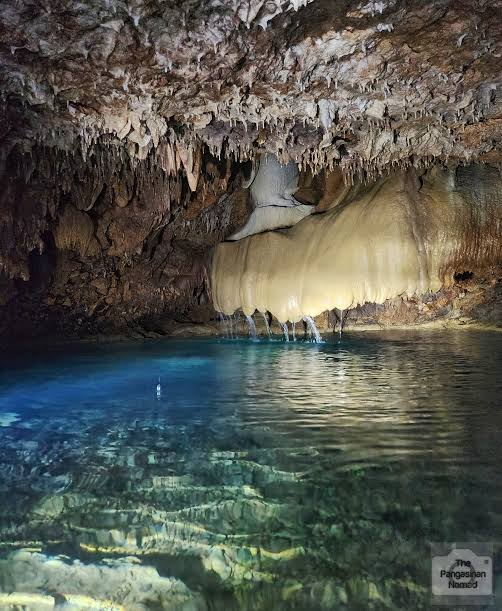
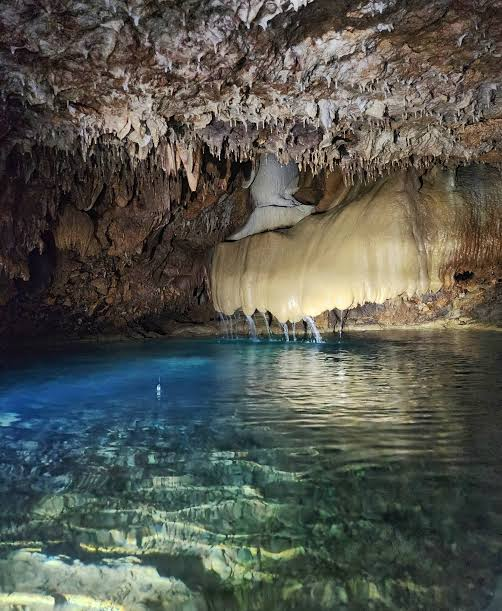
Fix images

Changed region(s): [[0.8367, 0.8707, 0.9861, 0.9951]]

diff --git a/src/pages/Home.jsx b/src/pages/Home.jsx
@@ -24,7 +24,7 @@ const places = [
   [
     "Cacupangan Cave System",
     "A network of caves in the municipality.",
-    "cacupangan cave.jpg",
+    "cacupangan.jpg",
   ],
   [
     "Sto. Rosario Cave",
